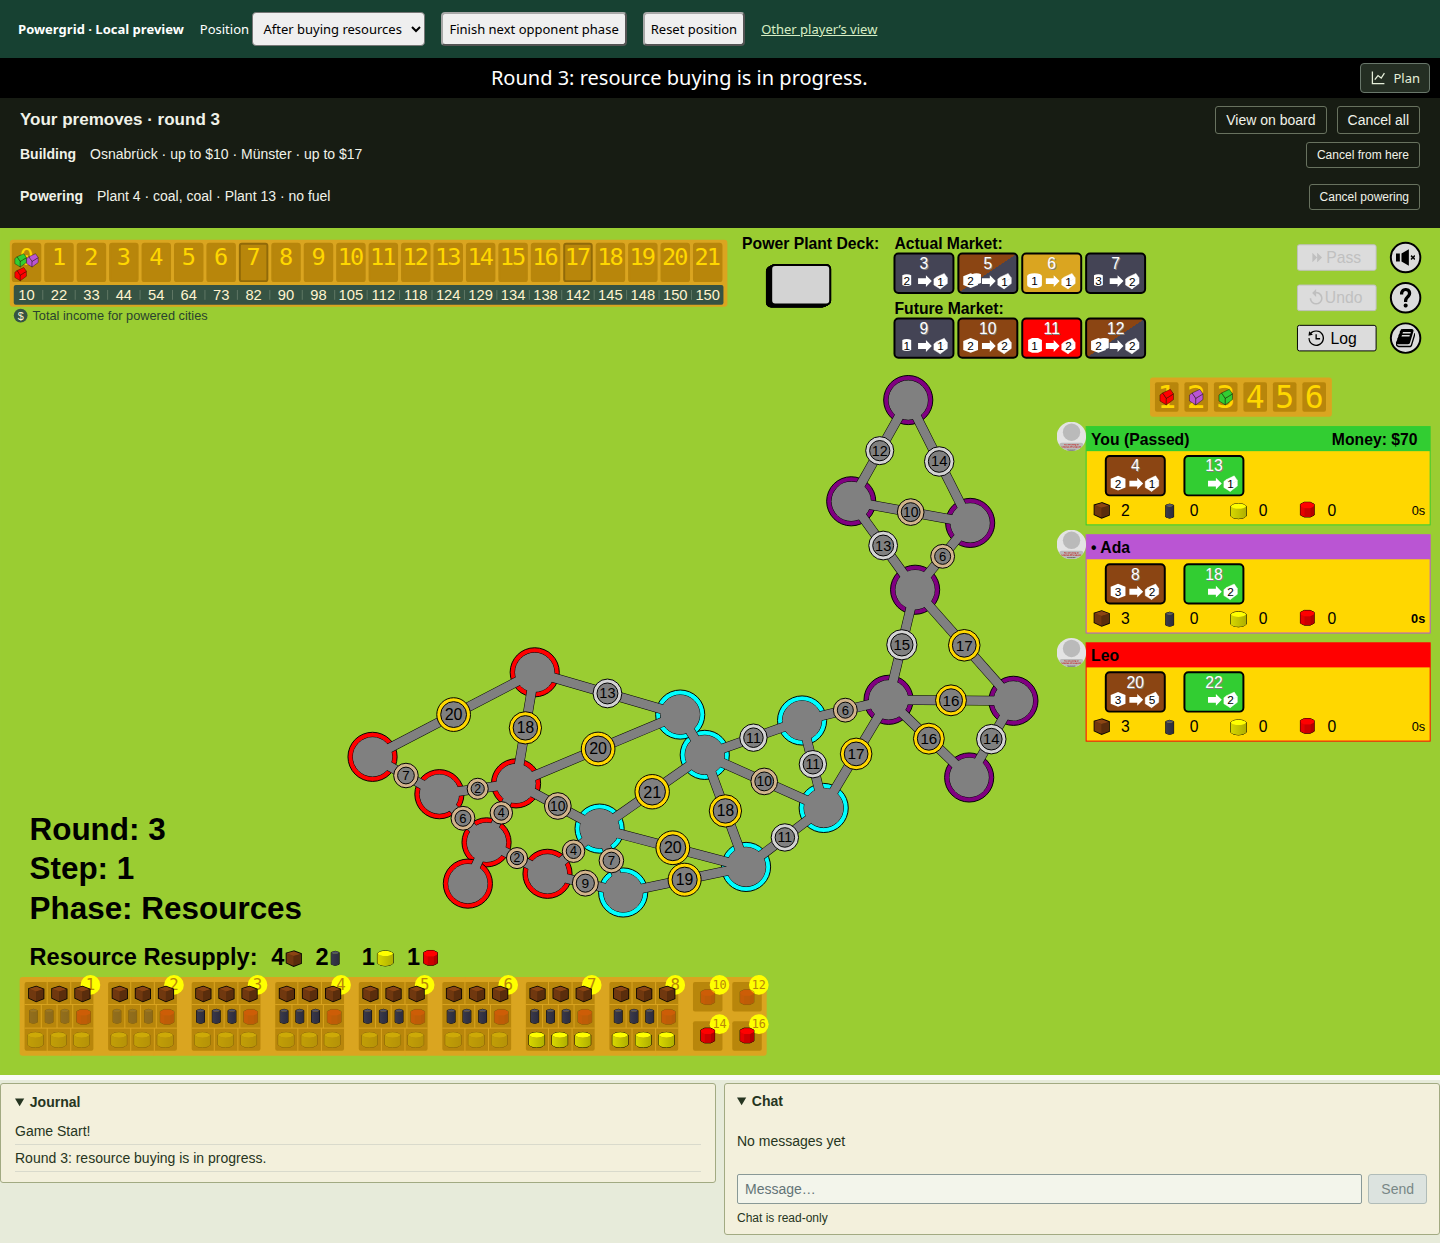
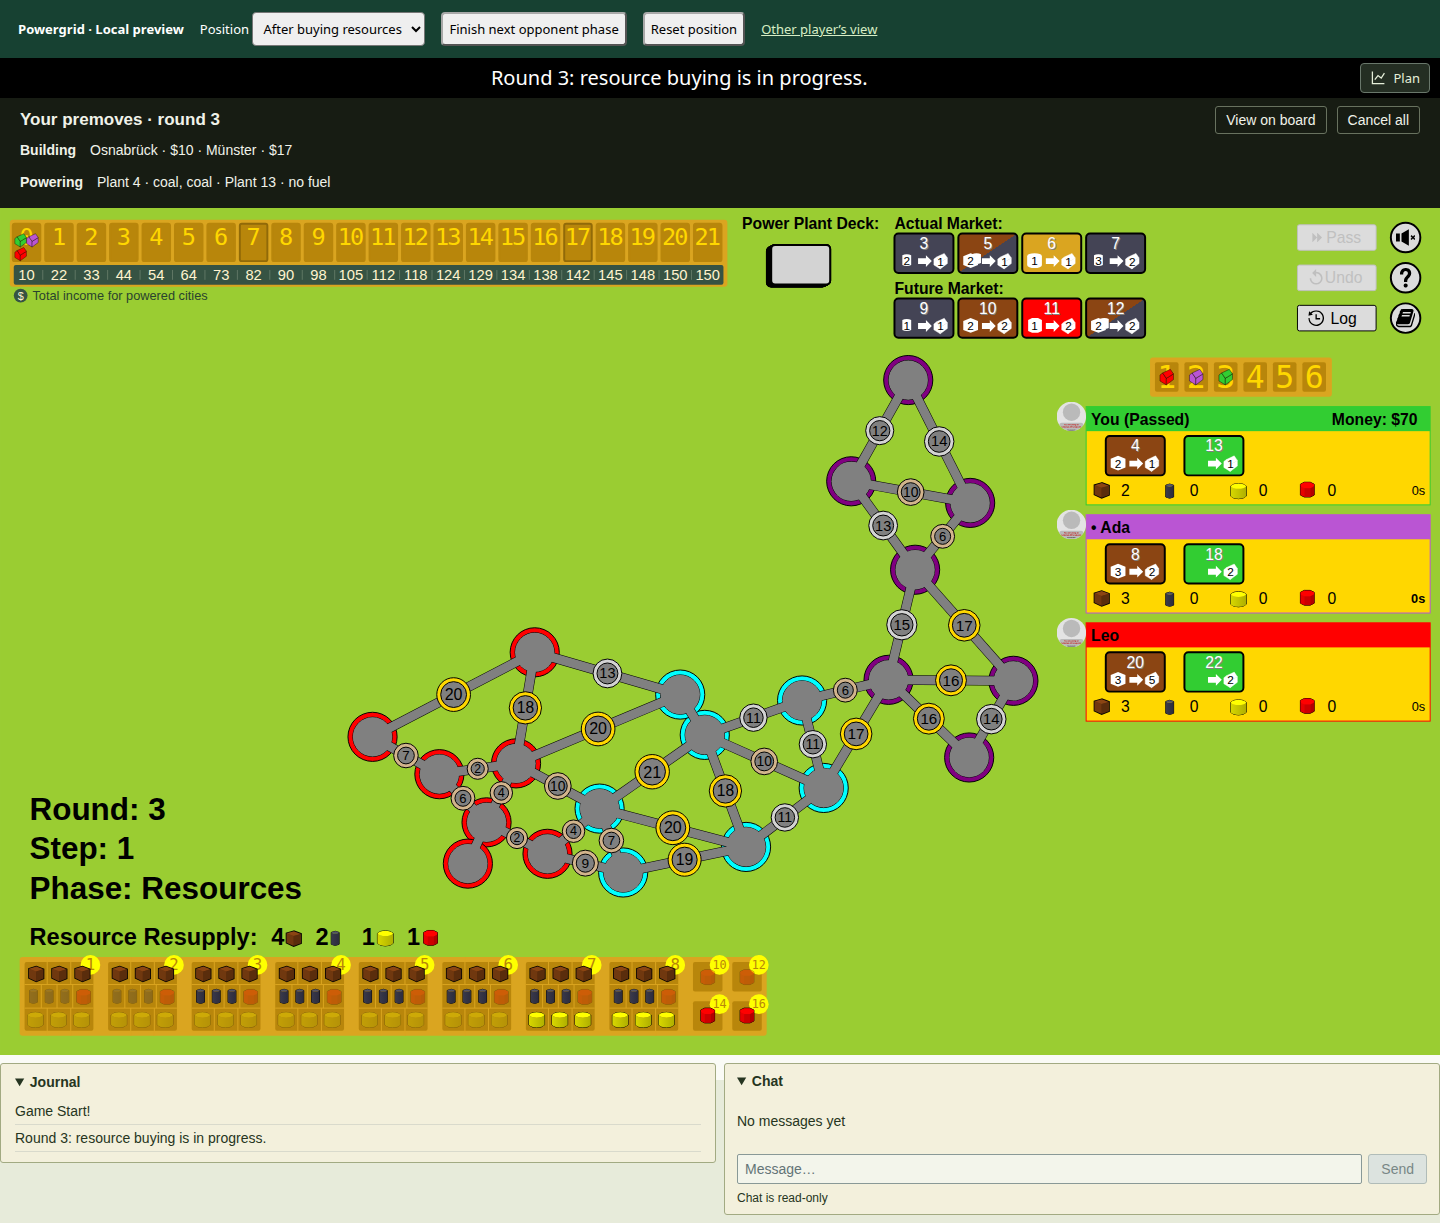
Simplify premove review and cancellation and fix clean-checkout checks

diff --git a/engine/src/premoves.spec.ts b/engine/src/premoves.spec.ts
@@ -6,8 +6,8 @@ import { GameState, Phase } from './gamestate';
 import { Move, MoveName } from './move';
 import { copyState, planMove, replayRoundPlan, startRoundPlan } from './planning';
 import { powerPlants } from './powerPlants';
-const getPowerPlant = (number: number) => copyState(powerPlants.find((p) => p.number === number)!);
 import { automation, PhasePlan, PremoveCommand, runPremoves } from './premoves';
+const getPowerPlant = (number: number) => copyState(powerPlants.find((p) => p.number === number)!);
 
 const pass: Move = { name: MoveName.Pass, data: true };
 export function position(): GameState {
@@ -149,19 +149,18 @@ describe('current-round planning and premoves', () => {
             .reduce((sum, m) => sum + (m.data as any).price, 0);
         expect(saved.players[0].money).to.equal(start - cost + 33);
     });
-    it('cancels the tail and rejects stale edits or duplicate execution', async () => {
+    it('cancels the queue and rejects stale edits or duplicate execution', async () => {
         let G = await wrapper.move(position(), request(fullPlan()), 0);
         G = await wrapper.move(G, request(fullPlan(), 0), 0);
         expect(G.automation!.plans[0].revision).to.equal(1);
-        G = await wrapper.move(G, request([fullPlan()[0]], 1, 'cancel-power'), 0);
-        expect(G.automation!.plans[0].phases).to.have.length(1);
+        G = await wrapper.move(G, request([], 1, 'cancel-all'), 0);
+        expect(G.automation!.plans[0].phases).to.have.length(0);
         try {
             await wrapper.move(copyState(G), request([], 1, 'stale'), 0);
             throw Error('accepted');
         } catch (e) {
             expect(e.message).to.contain('queue changed');
         }
-        G = await wrapper.move(G, request([], 2, 'cancel-all'), 0);
         expect(G.automation!.plans[0].phases).to.have.length(0);
         expect(wrapper.timeIncrements(G)[0]).to.equal(0);
     });
@@ -204,7 +203,7 @@ describe('current-round planning and premoves', () => {
         expect(G.automation!.plans[0].notice).to.contain('Premoves stopped');
         expect(wrapper.timeIncrements(G)[0]).to.equal(0);
     });
-    it('honours city price ceilings when an extra house slot raises the cost', async () => {
+    it('stops when an extra house slot changes the planned price', async () => {
         let G = position();
         G.step = 2;
         const phases = fullPlan(G);
@@ -215,7 +214,7 @@ describe('current-round planning and premoves', () => {
         G.players[0].passed = false;
         G = runPremoves(G);
         expect(G.players[0].money).to.equal(70);
-        expect(G.automation!.plans[0].notice).to.contain('above your');
+        expect(G.automation!.plans[0].notice).to.contain('instead of the planned');
     });
     it('does not use unavailable fuel or let a plan carry into the next round', async () => {
         let G = await wrapper.move(position(), request(fullPlan()), 0);

diff --git a/viewer/src/components/RoundPlanner.vue b/viewer/src/components/RoundPlanner.vue
@@ -15,7 +15,7 @@
                     <button v-if="queueable" class="primary" @click="review = true">
                         {{ playsNow ? 'Review and play' : 'Review premoves' }}
                     </button>
-                    <button v-if="hasQueue" :disabled="pending" @click="$emit('cancel', 0)">Cancel queued moves</button>
+                    <button v-if="hasQueue" :disabled="pending" @click="$emit('cancel')">Cancel queued moves</button>
                 </div>
             </div>
             <p v-if="!queueable && queueHint" class="muted queue-hint">{{ queueHint }}</p>
@@ -36,10 +36,10 @@
                 <strong>Your premoves · round {{ queue.round }}</strong>
                 <div class="planner-controls">
                     <button v-if="canStart" @click="$emit('view')">View on board</button
-                    ><button :disabled="pending" @click="$emit('cancel', 0)">Cancel all</button>
+                    ><button :disabled="pending" @click="$emit('cancel')">Cancel all</button>
                 </div>
             </div>
-            <div v-for="(phase, i) in queue.phases" :key="phase.phase" class="queued-phase">
+            <div v-for="phase in queue.phases" :key="phase.phase" class="queued-phase">
                 <strong>{{ phaseName(phase.phase) }}</strong
                 ><span>{{
                     phase.moves
@@ -47,10 +47,7 @@
                         .map(describeMove)
                         .join(' · ') ||
                     (phase.phase === 'Building' ? 'Finish without building' : 'Finish without powering')
-                }}</span
-                ><button :disabled="pending" @click="$emit('cancel', i)">
-                    {{ phase.phase === 'Bureaucracy' ? 'Cancel powering' : 'Cancel from here' }}
-                </button>
+                }}</span>
             </div>
         </template>
         <p v-if="queue && queue.notice" role="status" class="notice">{{ queue.notice }}</p>
@@ -74,8 +71,8 @@
                     </ol>
                 </div>
                 <p>
-                    Each city has the price limit shown above. If any move in a phase is unavailable, that phase spends
-                    nothing and the remaining queue stops.
+                    If a city’s price changes or a move becomes unavailable, that phase spends nothing and the remaining
+                    queue stops.
                 </p>
                 <div class="planner-controls">
                     <button @click="review = false">Keep planning</button

diff --git a/viewer/src/components/Game.vue b/viewer/src/components/Game.vue
@@ -785,6 +785,7 @@
     </div>
 </template>
 <script lang="ts">
+import { isEqual } from 'lodash';
 import InlineLog from './InlineLog.vue';
 import { Vue, Component, Prop, Watch, Provide, ProvideReactive, Ref } from 'vue-property-decorator';
 import { MoveName, ended, playersSortedByScore, reconstructState } from 'powergrid-engine';
@@ -1138,7 +1139,9 @@ export default class Game extends Vue {
         )
             return false;
         const phases = completedPhases(this.roundPlan);
-        return phases.length > 0 && canQueuePhases(this.committedState, this.player!, phases);
+        return phases.length > 0 &&
+            !isEqual(phases, this.myPhaseQueue?.phases) &&
+            canQueuePhases(this.committedState, this.player!, phases);
     }
     get planPlaysNow(): boolean {
         return (
@@ -1194,8 +1197,8 @@ export default class Game extends Vue {
         if (!this.canQueueRound) return;
         this.sendPhasePlan(completedPhases(this.roundPlan!));
     }
-    cancelPhasePlan(from: number) {
-        this.sendPhasePlan((this.myPhaseQueue?.phases || []).slice(0, from), true);
+    cancelPhasePlan() {
+        this.sendPhasePlan([], true);
     }
     sendPhasePlan(phases: PhasePlan[], cancelling = false) {
         if (this.pendingPlanId || !this.committedState) return;

diff --git a/engine/src/premoves.ts b/engine/src/premoves.ts
@@ -54,14 +54,14 @@ function resolveMove(G: GameState, seat: number, move: Move): Move {
     const offered = availableMoves(G, G.players[seat])[move.name];
     if (move.name === MoveName.Build) {
         const intended = move as Moves.MoveBuild;
-        assert(Number.isFinite(intended.data.price) && intended.data.price >= 0, 'Invalid city spending limit.');
+        assert(Number.isFinite(intended.data.price) && intended.data.price >= 0, 'Invalid city price.');
         const actual = (offered as Moves.MoveBuild['data'][] | undefined)?.find(
             (p) => p.name === intended.data.name && !!p.freeJump === !!intended.data.freeJump
         );
         assert(actual, `${intended.data.name} is no longer available or affordable.`);
         assert(
-            actual.price <= intended.data.price,
-            `${intended.data.name} now costs $${actual.price}, above your $${intended.data.price} limit.`
+            actual.price === intended.data.price,
+            `${intended.data.name} now costs $${actual.price}, instead of the planned $${intended.data.price}.`
         );
         return { name: MoveName.Build, data: copyState(actual) };
     }

diff --git a/viewer/src/util/round-plan.ts b/viewer/src/util/round-plan.ts
@@ -1,4 +1,4 @@
-import { Phase, MoveName, Move } from 'powergrid-engine';
+import { Move, MoveName, Phase } from 'powergrid-engine';
 import type { RoundPlan } from 'powergrid-engine/src/planning';
 import type { PhasePlan } from 'powergrid-engine/src/premoves';
 
@@ -13,7 +13,7 @@ export function completedPhases(plan: RoundPlan): PhasePlan[] {
 export function describeMove(move: Move): string {
     switch (move.name) {
         case MoveName.Build:
-            return `${move.data.name} · up to $${move.data.price}`;
+            return `${move.data.name} · $${move.data.price}`;
         case MoveName.UsePowerPlant:
             return `Plant ${move.data.powerPlant}${
                 move.data.resourcesSpent.length ? ' · ' + move.data.resourcesSpent.join(', ') : ' · no fuel'

diff --git a/engine/wrapper.ts b/engine/wrapper.ts
@@ -1,3 +1,9 @@
+import type { GameState } from './index';
+import * as engine from './src/engine';
+import { playersSortedByScore } from './src/engine';
+import { GameOptions } from './src/gamestate';
+import type { LogMove } from './src/log';
+import { Move, MoveName } from './src/move';
 import {
     automation,
     canManagePremoves,
@@ -7,12 +13,6 @@ import {
     runPremoves,
     setPremoves,
 } from './src/premoves';
-import type { GameState } from './index';
-import * as engine from './src/engine';
-import { playersSortedByScore } from './src/engine';
-import { GameOptions } from './src/gamestate';
-import type { LogMove } from './src/log';
-import { Move, MoveName } from './src/move';
 import { asserts } from './src/utils';
 
 export async function init(

diff --git a/viewer/tests/unit/round-plan.spec.ts b/viewer/tests/unit/round-plan.spec.ts
@@ -1,7 +1,11 @@
+import { completedPhases } from '@/util/round-plan';
 import { expect } from 'chai';
 import { MoveName, Phase, setup } from 'powergrid-engine';
-import { planMove, startRoundPlan } from 'powergrid-engine/dist/src/planning';
-import { completedPhases } from '@/util/round-plan';
+// Use source types so the app can type-check before the engine build. Unit tests run the compiled engine.
+const {
+    planMove,
+    startRoundPlan,
+}: typeof import('powergrid-engine/src/planning') = require('powergrid-engine/dist/src/planning');
 
 describe('round planner queue selection', () => {
     it('queues only complete building and powering phases, excluding assumed purchases', () => {

diff --git a/viewer/src/self-contained.ts b/viewer/src/self-contained.ts
@@ -1,8 +1,8 @@
-import { move as wrapperMove, moveAI as wrapperAI } from 'powergrid-engine/wrapper';
-import type { PremoveCommand } from 'powergrid-engine/src/premoves';
 import { cloneDeep } from 'lodash';
 import { Move, Phase, setup, stripSecret } from 'powergrid-engine';
 import type { MapName, Variant } from 'powergrid-engine/src/gamestate';
+import type { PremoveCommand } from 'powergrid-engine/src/premoves';
+import { move as wrapperMove, moveAI as wrapperAI } from 'powergrid-engine/wrapper';
 import { installLocalChat } from './game-chat';
 import launch from './launch';
 import { mountSoundTests } from './sounds';

diff --git a/docs/premoves/README.md b/docs/premoves/README.md
@@ -6,7 +6,7 @@ Plant bids are assumed winning prices in the simulation. Resource purchases use 
 
 After real resource buying, finish a simulated building and/or powering phase with **Done**, then review and confirm the premoves. Each queued phase includes its ending pass. A phase already due plays immediately on confirmation; later phases wait for the player's turn. The saved queue can be viewed or cancelled after reload, and execution does not require an open browser.
 
-Each city keeps its previewed price as a maximum. The server rechecks every action against the current position, and commits a phase only if all its moves are legal. An occupied/unaffordable city, a higher price, or missing fuel stops the queue without partially spending on that phase. Already completed phases remain played. Manual moves replace the queue for that phase; later queued phases remain. Queues expire at the round boundary or game end.
+Each city keeps its exact previewed price. The server rechecks every action against the current position, and commits a phase only if all its moves are legal. An occupied/unaffordable city, a changed price, or missing fuel stops the queue without partially spending on that phase. Already completed phases remain played. Manual moves replace the queue for that phase; later queued phases remain. Queues expire at the round boundary or game end.
 
 Queue edits use revision checks and request IDs, are visible only to their owner, and use the existing `canMoveOutOfTurn`/`isLiveUpdate` hooks. Executed actions use normal engine rules and commit boundaries. `timeIncrements` credits execution, not simulation or queue edits. No protocol package change is needed.
 
